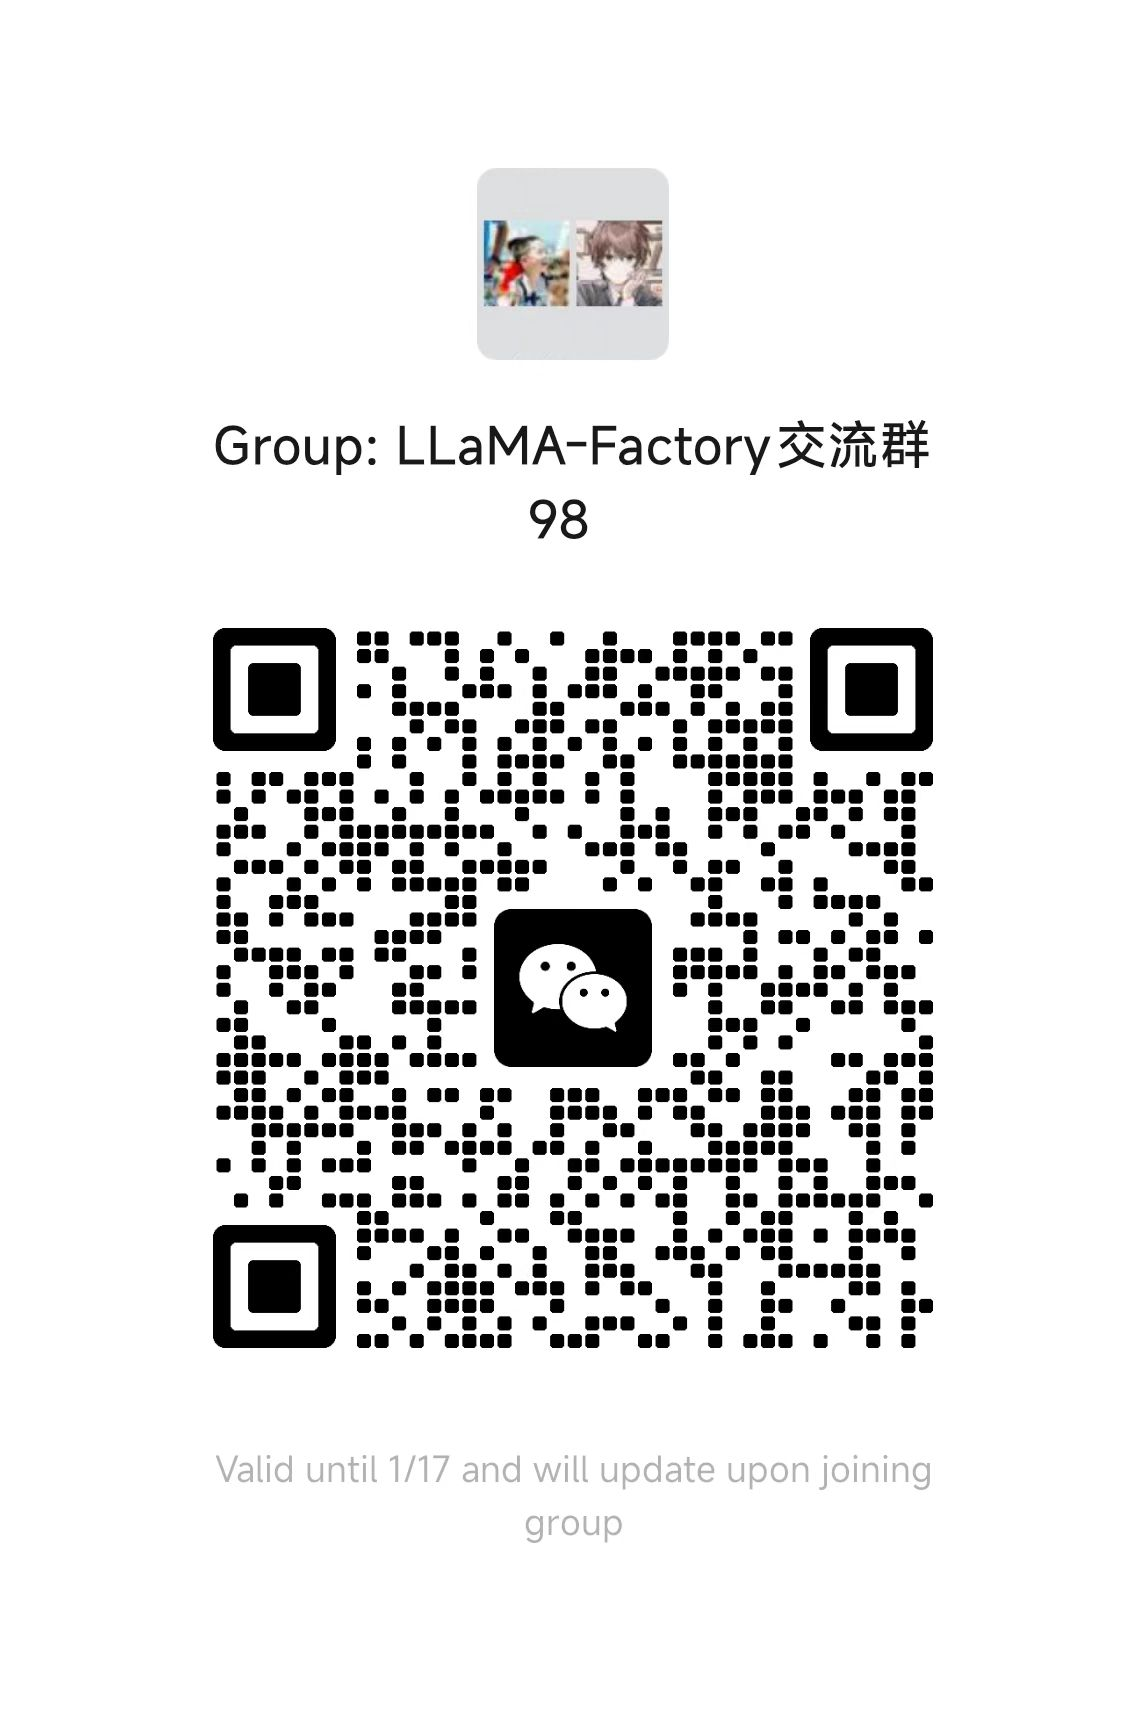
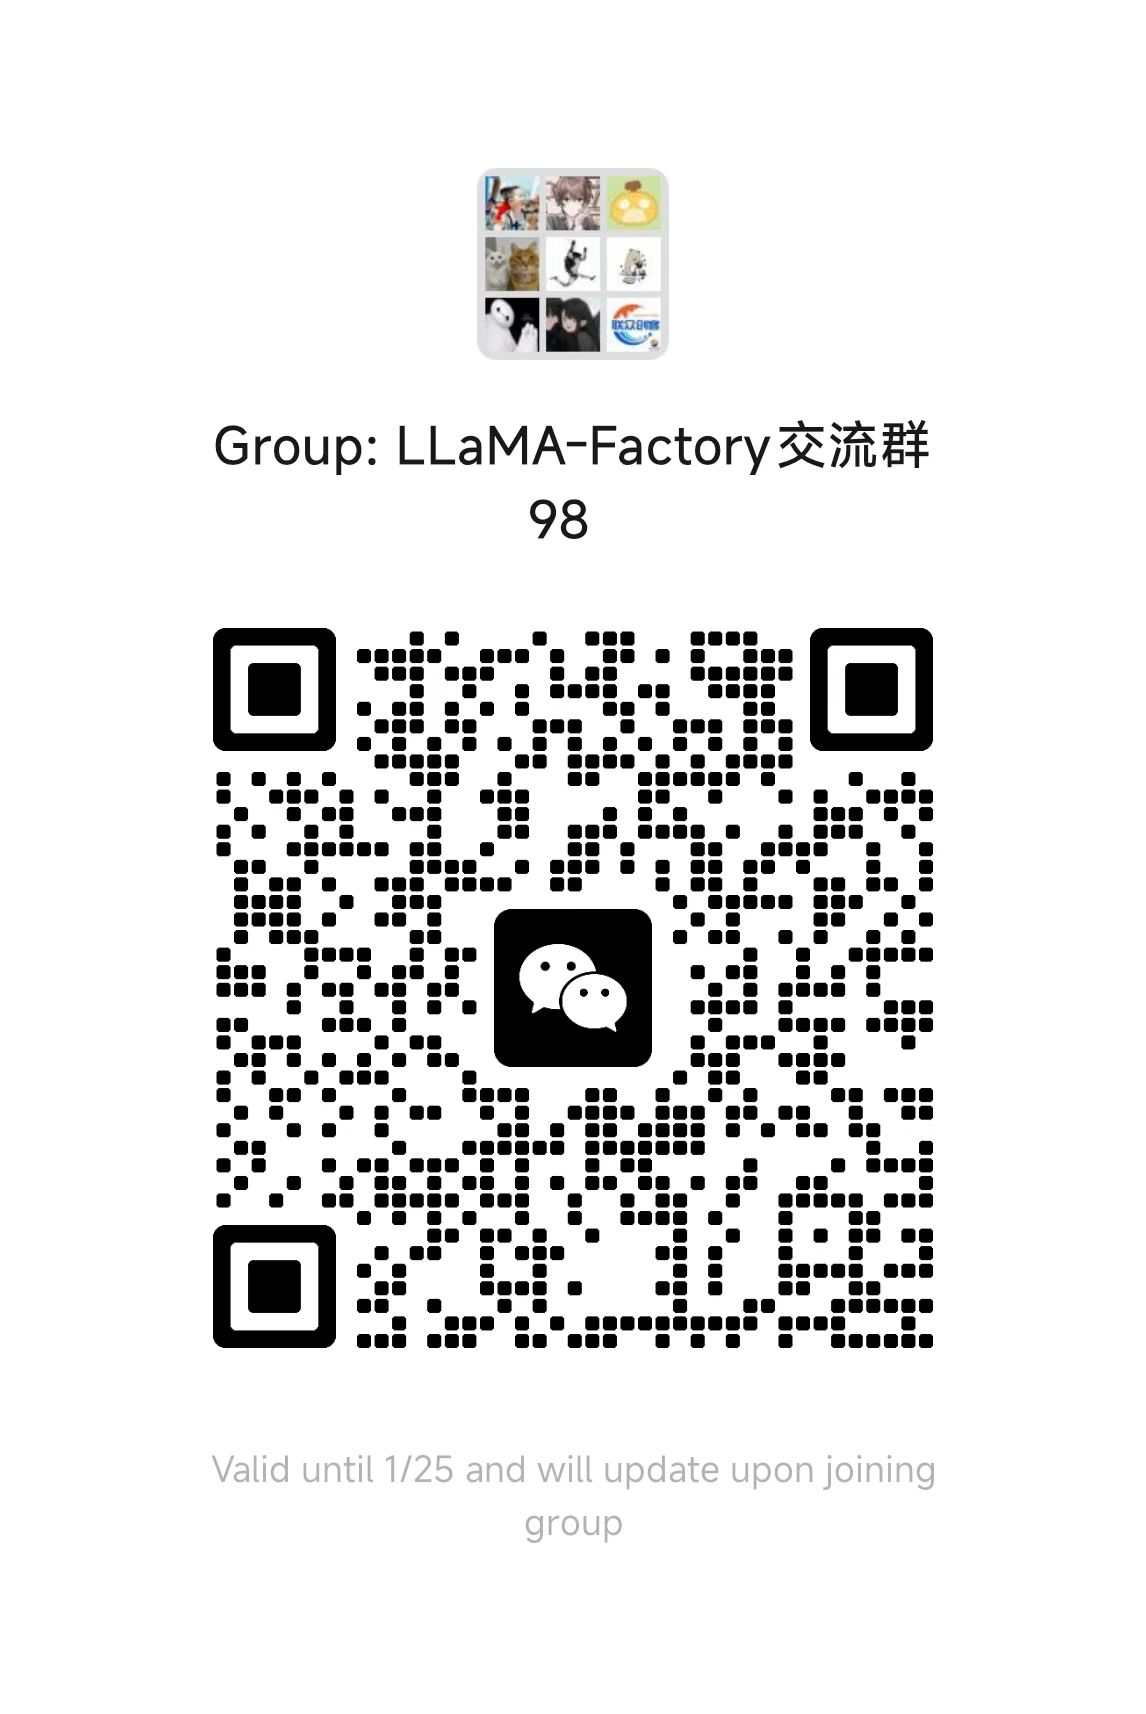
[assets] update wechat (#6692)

Changed region(s): [[0.1832, 0.3711, 0.8246, 0.804], [0.397, 0.0928, 0.5803, 0.2165], [0.1832, 0.8349, 0.8246, 0.8658]]

diff --git a/README_zh.md b/README_zh.md
@@ -501,7 +501,7 @@ pip install .
 2. 安装 transformers 的 main 分支版本。
 
 ```bash
-git clone -b https://github.com/huggingface/transformers.git
+git clone -b main https://github.com/huggingface/transformers.git
 cd transformers
 pip install .
 ```

diff --git a/README.md b/README.md
@@ -499,7 +499,7 @@ pip install .
 2. Install transformers from the main branch.
 
 ```bash
-git clone -b https://github.com/huggingface/transformers.git
+git clone -b main https://github.com/huggingface/transformers.git
 cd transformers
 pip install .
 ```
